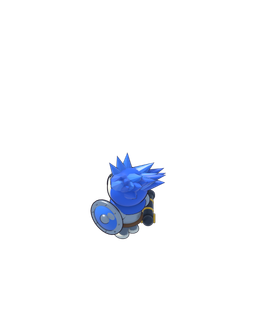
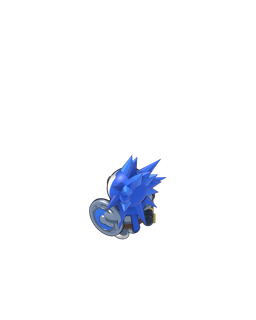
Visual overhaul v3 slice 2.1: defender identity correction and arena polish
Refine the v003 Blender scripts against cards 21 and 07. Bulwark gets a
Corinthian helmet with a V brow, a striped crest band, black spikes and a
faceted star shield. Chog Guardian gets a taller cream mask, black oval eyes,
an angled brow, a faceted spike crown readable from behind, a scarf tail and a
riveted blue-field shield. Towers gain masonry, quoins and crystal bezels.
The arena gains ground hierarchy, flagstone lanes, river foam and glints,
grey banks, bevelled bridge posts and clustered flora under warmer light.

Weapon anchors, pivots, ground anchors, geometry, ripple layers and Chaos
overlays are unchanged. Gameplay, input, server and the v002 fallback are
untouched.

Changed region(s): [[0.3438, 0.4688, 0.6562, 0.75]]

diff --git a/docs/chog-visual-overhaul-readiness.md b/docs/chog-visual-overhaul-readiness.md
@@ -143,3 +143,17 @@ Known limits of this slice:
 - The blue defender faces away from the camera to aim up, so only the spikes, shield, scarf and armour carry identity, never the face. That follows the orientation lock.
 - Defenders have static idle and aim poses only, with no fire or destroy frames. Recoil, muzzle flash and the hit tint are code cues.
 - No troop, building, spell or commander atlas and no new card art exist yet. All 25 cards and `burrow_scrapper` still use v001. The full queue is in `docs/chog-asset-production-manifest.json`.
+
+## 11. Slice 2.1: defender identity correction and arena polish (2026-10-25)
+
+Refinement of the slice 2 Blender scripts, not a rebuild. Same camera, canvases, pivots, parts, roles, layer list and runtime manifest schema. Branch `visual-overhaul/v3-slice2`.
+
+- Bulwark: a Corinthian helmet with a rectangular face opening, an open nape, long cheek guards and a V brow ridge replaces the round bubble helmet. The crest is one smooth striped red band on a gold ridge, replacing the thin horn. Black spikes now fan back and up from under the helmet. Eyes are larger with a shared upper-left highlight, and the head is lifted 14 degrees so the face reads from the gameplay camera. The tunic gains gold studs, trim, a belted skirt and gold greaves. The shield has a bevelled gold rim, an ivory dome and a raised faceted gold star.
+- Chog Guardian: the cream face mask is taller and warmer, with solid black oval eyes, a heavier angled brow and a smirk. The spikes are a broad faceted sunburst plus a rear starburst, so the back view reads as a spiky blue crown instead of scales. The scarf is thicker, with a knot in front and a tail down the back. The plate has layered pauldrons and segment bands, and the shield has a riveted steel rim, a raised blue field and a boss. The bottom tower view stays back-facing with the cannon aimed up.
+- Towers: darker mortar behind three-tone stone blocks, light corner quoins, gold plinth band and corner caps, and a faceted team crystal in a gold bezel. Footprints, pivots, weapon anchors and ground anchors are unchanged. Only the measured health-bar top moved by 2 to 5 board pixels.
+- Arena: broad sunlit and cloud-shade patches, an 8-unit mowing checker and lit grass clumps in the ground texture. Lanes have broken flagstones with a darker trodden border on the same alignment. The river has a deeper turquoise ramp, foam rims at both banks and patchy sun glints. Banks use grey boulders with ferns. Bridges have three-tone planks, bevelled stone posts on dark bases and a face gem. Flowers and tufts gather in clustered drifts, with flat stepping stones beside the lanes. Light is a warmer upper-left sun with a softer cool fill. Ripple layers and the Chaos overlays are byte-identical, so the water animation and Chaos states are unchanged.
+- Runtime size: v003 grows from 1.38 MB to about 1.8 MB.
+
+Verification: `npx vitest run src/app/dev/battle` gives 121 of 121. Typecheck, scoped eslint and `next build` pass. Fixture captures for both seats at 390x844 and 1366x768 show `king-red`/`lane-red` on `aim-south` at the top and `lane-blue`/`king-blue` on `aim-north` at the bottom, with zero console errors and zero failed asset loads. The forced v002 fallback still loads with only the two intentional 404s. Review sheets and captures are in `ChogRoyale-Assets/visual-overhaul-v3-slice2-1/`. Not verified: a live two-login match, physical devices, live tower fire and performance.
+
+Remaining limits: primitive modelling still sits below the painted concept boards, the Bulwark crest reads as a mohawk band rather than the card's wide fan, Guardian spikes are cones rather than the card's curved painted shapes, poses are static, and owner approval is pending.

diff --git a/agent-state/memory.md b/agent-state/memory.md
@@ -1,5 +1,8 @@
 # Memory
 
+- v003 Blender loop: `PREVIEW=1 build_mounts.py -- <out> [bulwark|guardian]` renders the defender alone at 16 samples (front identity plus gameplay view). `LOWQ=1` drops mounts and arena layers to 16 samples, arena at 50 percent. Rebuilding mount roles by name merges into `_mounts-record.json`. `scripts/montage.cjs` and `scripts/assemble.cjs` make review sheets.
+- Smooth-shaded cones that point toward the high gameplay camera read as round lumps. Back-facing spikes should splay sideways in the view plane and use flat shading. Spikes based at the head centre and pointing radially exit cleanly, while offset bases with a different direction bulge.
+
 - Blender 5.2 is installed at `C:/Users/USER/AppData/Local/Programs/Blender Foundation/Blender 5.2/blender.exe` and renders headless (`-b --factory-startup --python`) with EEVEE. The only engines are `BLENDER_EEVEE`, `BLENDER_WORKBENCH` and `CYCLES`, so `BLENDER_EEVEE_NEXT` doesn't exist. Blender's bundled numpy works. System Python has neither numpy nor Pillow. The MCP Blender bridge was not connected this session, and headless runs don't need it.
 - Blender primitive defaults: cube size 2 and cylinder depth 2. Pass size and depth of 1 when the scale is meant as full dimensions. Generated images saved through `Image.save()` and reloaded avoid the empty-texture problem with packed generated images.
 - sharp is only a transitive dependency. Asset-side scripts resolve it from the repo `node_modules` and must call `sharp.cache(false)`, then write through `fs` with a retry, because Windows briefly locks just-read PNGs.

diff --git a/agent-state/left-off.md b/agent-state/left-off.md
@@ -1,3 +1,9 @@
+## Visual overhaul v3, slice 2.1 (2026-10-25)
+
+- Doing: defender identity correction and arena polish on `visual-overhaul/v3-slice2`, refining the existing slice 2 Blender scripts. Local commit only, no push, PR or deploy.
+- Done: Bulwark (Corinthian helmet, V brow, striped crest band, black spikes, studded tunic, faceted star shield) and Chog Guardian (taller cream mask, black oval eyes, angled brow, faceted spike sunburst and rear starburst, thick scarf with back tail, layered plate, riveted blue-field shield) rebuilt in `build_mounts.py`. Tower masonry, quoins and crystal bezels. Arena ground hierarchy, flagstone lanes, river foam and glints, grey banks, bridge posts, clustered flora, warmer light. Tests 121/121, tsc, scoped lint, build green. Review set in `ChogRoyale-Assets/visual-overhaul-v3-slice2-1/`.
+- Next: owner review of both defenders and the arena. Then Choglings and Boulderback atlases. Live two-login match, phone pass and the troop ring colour decision are still open.
+
 ## Visual overhaul v3, slice 2 (2026-10-25)
 
 - Doing: asset reference pack v1 plus the first genuine production slice on branch `visual-overhaul/v3-slice2` from slice 1 commit 1e1fa56. Local commits only, with no push, PR or deploy without owner approval.

diff --git a/AGENTS.md b/AGENTS.md
@@ -134,6 +134,7 @@ This block is written and re-added by `next dev` — verify at `node_modules/nex
 - Fixture screenshots are presentation evidence only. Pointer/deployment delivery and touch behavior remain pending a real two-player regression.
 - Pre-rendered 2.5D arena layers (v003+) are camera-space (`space: "camera"`) and must never be flipped for seat 1, or trees, posts and banners turn upside down. Only board-space overlays mirror. New layers keep logical points on exact master pixels via the pitched ortho camera with ground Y stretched by 1/cos(pitch). Check the projected anchors before importing.
 - Tower mounts are player-relative roles from `structureMounts`: the opponent gets red Bulwark mounts aiming south and the viewer gets blue Chog Guardian mounts aiming north. Weapon anchors come from projected 3D muzzle points, never hand-picked pixels. Keep v002 as the runtime fallback.
+- Defender art refinements are judged against the original card first. Reject a revision that is prettier but less recognizable as its Chog. Visual-only refinements must leave weapon anchors, pivots, ground anchors and the ripple and Chaos layers unchanged, so compare the export log anchors before importing.
 
 ## GAME APP SHELL
 

diff --git a/agent-state/project-state.md b/agent-state/project-state.md
@@ -1,5 +1,10 @@
 # Project State
 
+## Visual overhaul v3, slice 2.1 (2026-10-25)
+
+- Same v003 package and manifest schema, re-rendered from refined scripts. Defender identities corrected against cards 21 and 07, towers and arena polished. Weapon anchors, pivots, ground anchors, geometry projections, ripple layers and Chaos overlays unchanged. Only health-bar tops moved 2 to 5 board px. Runtime size about 1.8 MB.
+- Readiness doc section 11 records the changes and limits.
+
 ## Visual overhaul v3, slice 2 (2026-10-25)
 
 - Reference pack v1 sits at the repo root (`Chog_Royale_Devin_Asset_Reference_Pack_v1/`). It's reference only, every file `game_ready: false`, and its art bible is identical to the v3 handoff.
